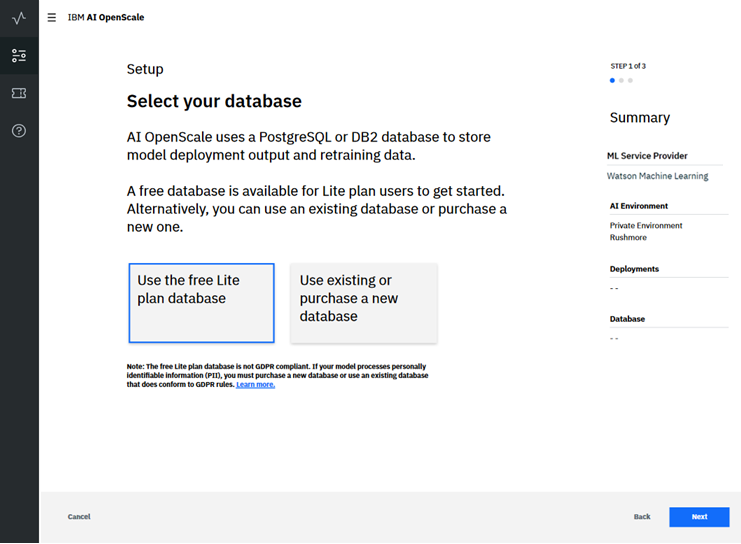
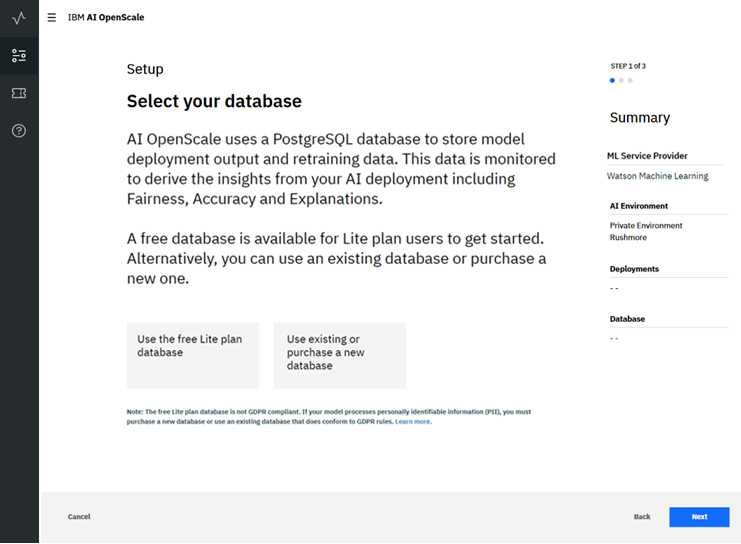
Fixes issue #3617

Changed region(s): [[0.1552, 0.2188, 0.776, 0.7188], [0.1552, 0.75, 0.7139, 0.7812]]

diff --git a/connect-db.md b/connect-db.md
@@ -2,13 +2,15 @@
 
 copyright:
   years: 2018
-lastupdated: "2018-11-28"
+lastupdated: "2018-12-03"
 
 ---
 
 {:shortdesc: .shortdesc}
 {:new_window: target="_blank"}
 {:tip: .tip}
+{:important: .important}
+{:note: .note}
 {:pre: .pre}
 {:codeblock: .codeblock}
 {:screen: .screen}
@@ -44,17 +46,26 @@ To proceed with using the free Lite plan database, simply select that option, th
 
 ### Existing or new database
 
-Once you have selected the "Use existing or purchase new database" option, {{site.data.keyword.aios_short}} checks your {{site.data.keyword.Bluemix_notm}} account to locate any existing databases.
+1.  Once you have selected the "Use existing or purchase new database" option, {{site.data.keyword.aios_short}} checks your {{site.data.keyword.Bluemix_notm}} account to locate any existing databases.
 
-**Note**: For the current release, only a PostgreSQL database is supported.
+  For the current release, only a PostgreSQL database is supported.
+  {: note}
 
-You can select a database from the **Database** drop-down menu, and then a **Schema**:
+1.  Select your existing database from the **Database** drop-down menu, and then a **Schema**:
 
   ![Select database](images/gs-config-database3.png)
 
-  You can also select the **Sign up for a new instance** link to purchase a new Postgres instance in {{site.data.keyword.Bluemix_notm}}.
+You can also click **Select a different location** to specify a PostgreSQL database location outside of your {{site.data.keyword.Bluemix_notm}} account.
 
-Once you have selected a database and schema, click **Next** to review the summary data and click **Save**.
+1.  Select the **Database Type**, then fill in the connection information for your PostgreSQL database location and click **Connect**:
+
+  ![Select database](images/gs-config-database4.png)
+
+1.  Once you have successfully connected, you can select a schema
+
+  ![Select database](images/gs-config-database5.png)
+
+Click **Next** to review the summary data and click **Save**.
 
 ### Next steps
 {: #connect-next}

diff --git a/getting-started.md b/getting-started.md
@@ -10,7 +10,7 @@ takeaways:
 
 copyright:
   years: 2018
-lastupdated: "2018-11-28"
+lastupdated: "2018-12-04"
 
 ---
 
@@ -205,9 +205,12 @@ Now that the machine learning model has been deployed, you can configure {{site.
 
 - Select the **Manage** tab of your {{site.data.keyword.aios_short}} instance, and click the **Launch application** button. The {{site.data.keyword.aios_full}} Getting Started page opens. Click **Begin**.
 
-- For this tutorial, select the Watson Machine Learning tile and click **Next**.
+- Select the Watson Machine Learning tile and click **Next**.
 
-- Then select your instance from the menu and click **Next**.
+- For this tutorial, select your Watson Machine Learning instance from the menu and click **Next**.
+
+  You also have the option to select a different Machine Learning location; see [Specify your Watson Machine Learning instance](/docs/services/ai-openscale/connect-wml.html) for addtional information.
+  {: note}
 
   ![Set WML instance](images/gs-set-wml.png)
 
@@ -219,7 +222,8 @@ Now that the machine learning model has been deployed, you can configure {{site.
 
     ![Select database](images/gs-set-lite-db.png)
 
-  **NOTE**: See more complete details about each of these options in the [Specify your database](/docs/services/ai-openscale/connect-db.html) topic.
+  See more complete details about each of these options in the [Specify your database](/docs/services/ai-openscale/connect-db.html) topic.
+  {: note}
 
 - Review the summary data and cick **Save**. Confirm and, when prompted, click the **Continue with Configuration** button.
 

diff --git a/connect-wml.md b/connect-wml.md
@@ -2,13 +2,15 @@
 
 copyright:
   years: 2015, 2018
-lastupdated: "2018-11-13"
+lastupdated: "2018-12-03"
 
 ---
 
 {:shortdesc: .shortdesc}
 {:new_window: target="_blank"}
 {:tip: .tip}
+{:important: .important}
+{:note: .note}
 {:pre: .pre}
 {:codeblock: .codeblock}
 {:screen: .screen}
@@ -33,11 +35,15 @@ You should have provisioned a WML instance in the same {{site.data.keyword.Bluem
 
     ![Home page](images/gs-config-start.png)
 
+1.  Select the Watson Machine Learning tile and click **Next**.
+
 1.  {{site.data.keyword.aios_short}} checks your {{site.data.keyword.Bluemix_notm}} account to locate any existing WML instances. You can then select an instance from the **Watson Machine Learning service** drop-down menu.
 
-    ![Select ML service](images/gs-config-ml.png)
+    ![Select WML service](images/gs-set-wml.png)
 
-    You can also select the **Add new connection** link to purchase a new WML service instance, and select a plan, in {{site.data.keyword.Bluemix_notm}}. Once you have done that, refresh this page so that the newly-provisioned WML instance is displayed for selection.
+1.  (Optional) You also have the option to **Select a different location**, to specify a machine learning location outside of your {{site.data.keyword.Bluemix_notm}} account. Provide credentials for your location as valid JSON:
+
+    ![Set WML instance](images/gs-get-wml.png)
 
 1.  Click **Next**.
 
